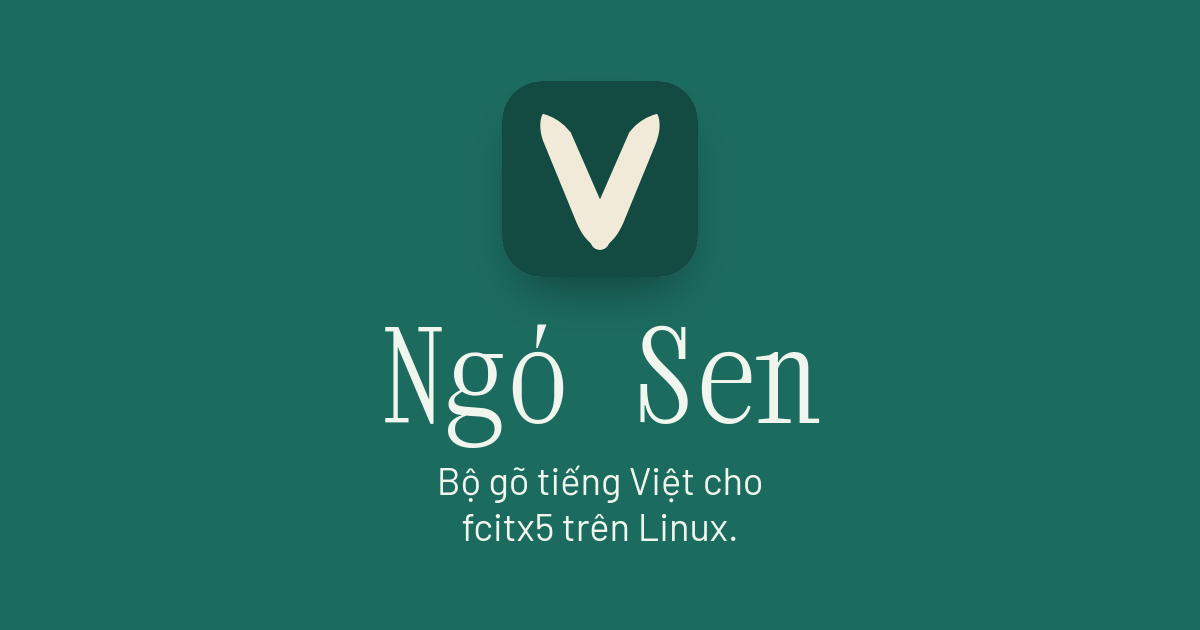
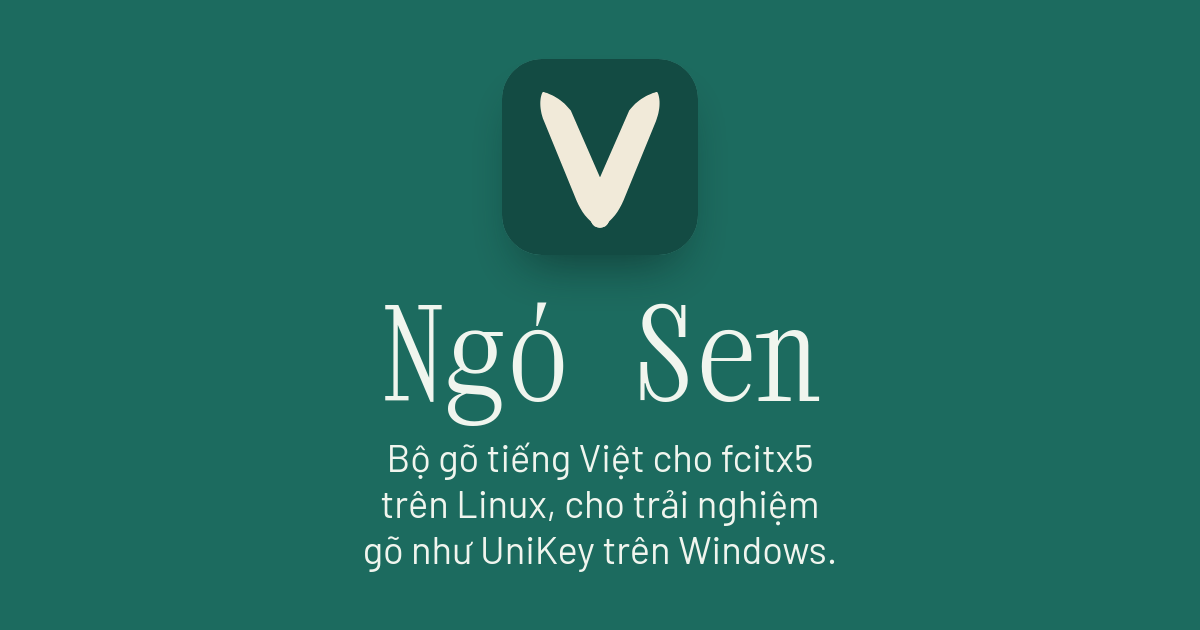
feat: say the typing works like UniKey on Windows in the tagline (#42)
TAGLINE, the /en/ lede and the link-preview card say Ngó Sen types like UniKey on Windows; the English lede explains what UniKey is.

Assisted-by: AI

Changed region(s): [[0.3083, 0.4825, 0.7092, 0.9048], [0.4008, 0.0905, 0.5858, 0.3921]]

diff --git a/src/data/site.ts b/src/data/site.ts
@@ -4,7 +4,7 @@ export const REPO = 'https://github.com/ngosen/ngosen';
 export const ARCHIVE_REPO = 'https://github.com/ngosen/ngosen-fork-archive';
 // Link preview image. Bump the query after re-rendering it: Facebook, Zalo and Telegram cache
 // previews by image URL.
-export const OG_IMAGE = '/og.png?v=2';
+export const OG_IMAGE = '/og.png?v=3';
 export const INSTALL_COMMAND =
   'curl -fsSL https://raw.githubusercontent.com/ngosen/ngosen/main/install.sh | bash';
 
@@ -752,7 +752,7 @@ export const DISTRIBUTIONS: Distribution[] = [
 ];
 
 // Mirrors the introduction and features in README.md in ngosen/ngosen.
-export const TAGLINE = 'Bộ gõ tiếng Việt cho fcitx5 trên Linux.';
+export const TAGLINE = 'Bộ gõ tiếng Việt cho fcitx5 trên Linux, cho trải nghiệm gõ như UniKey trên Windows.';
 
 export const HIGHLIGHTS: { title: string; text: string }[] = [
   {

diff --git a/tools/og/card.html b/tools/og/card.html
@@ -87,7 +87,7 @@
         </g>
       </svg>
       <h1>Ngó Sen</h1>
-      <p class="tagline">Bộ gõ tiếng Việt cho fcitx5 trên Linux.</p>
+      <p class="tagline">Bộ gõ tiếng Việt cho fcitx5 trên Linux, cho trải nghiệm gõ như UniKey trên Windows.</p>
     </main>
   </body>
 </html>
